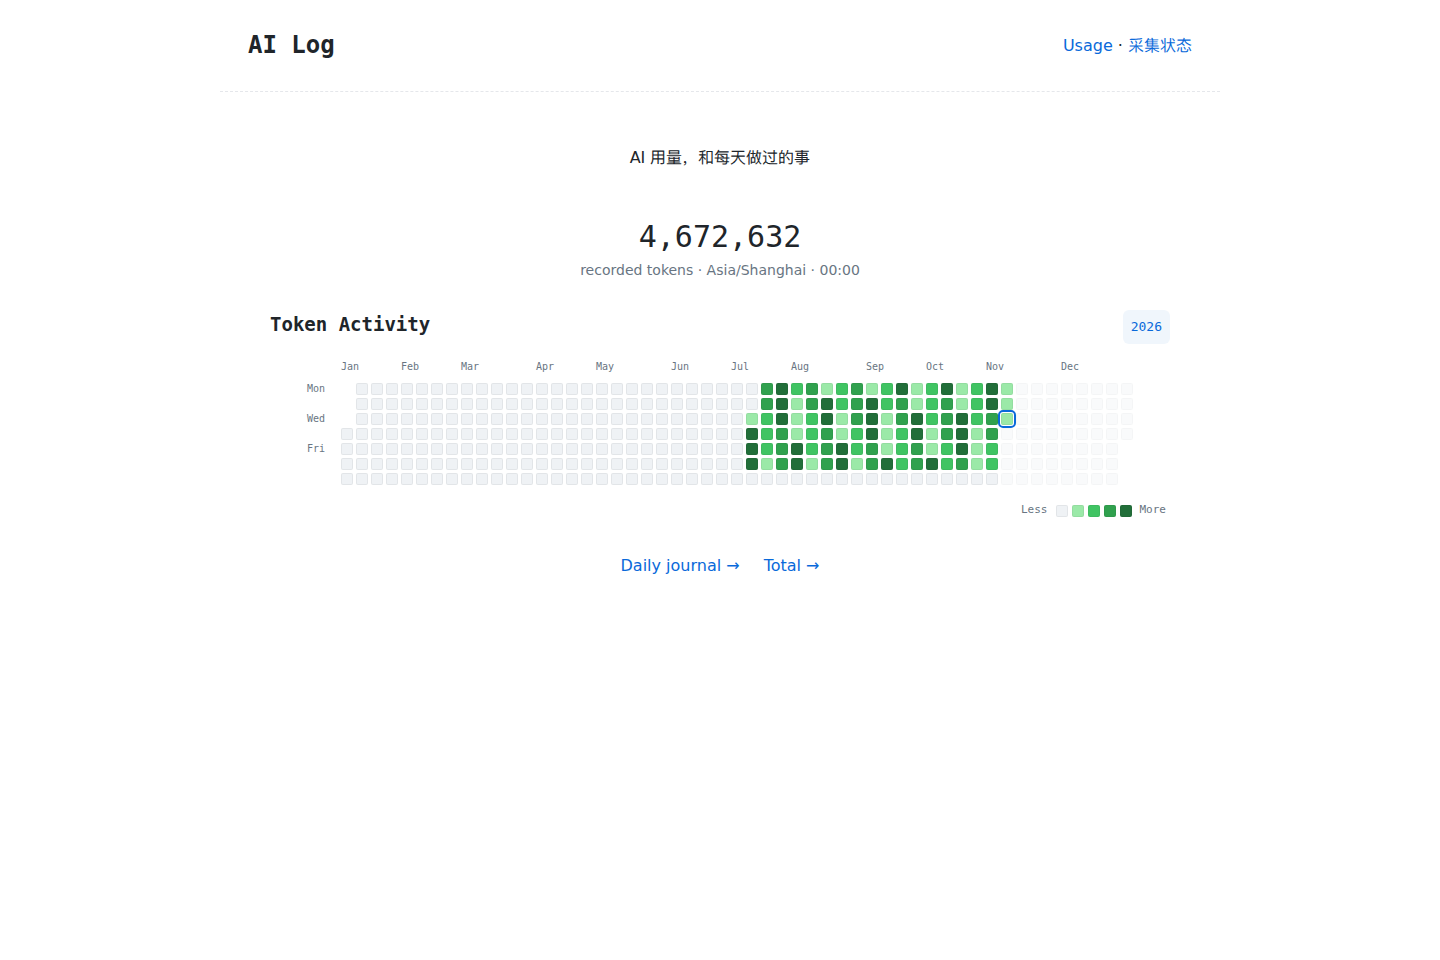
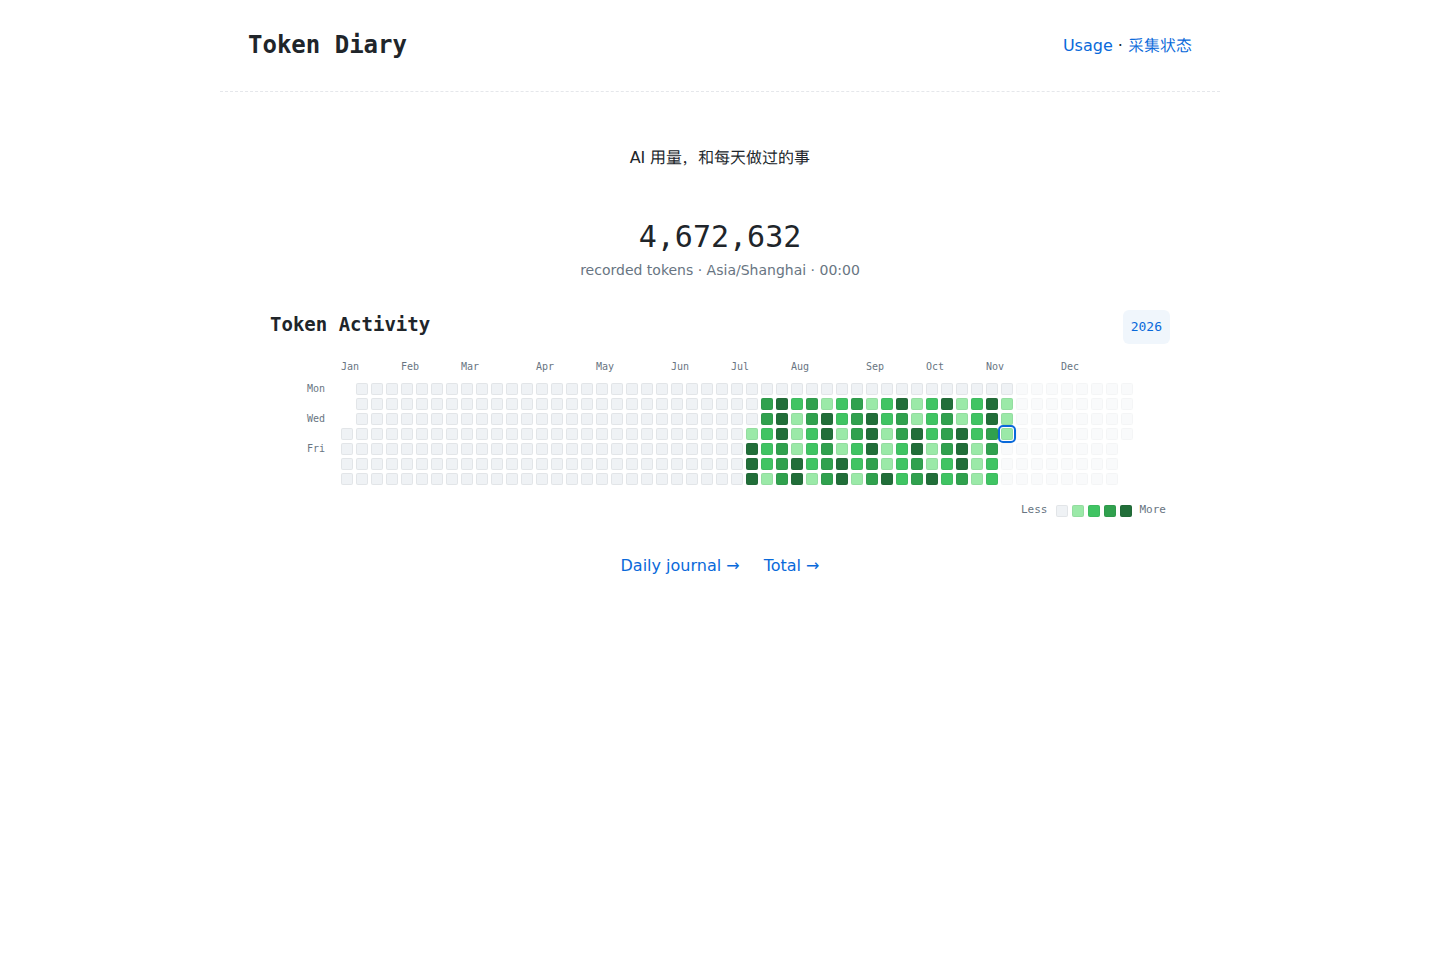
docs: rename project to Token Diary and rewrite the README

Changed region(s): [[0.5, 0.375, 0.7188, 0.5312], [0.1562, 0.0312, 0.2812, 0.0625]]

diff --git a/README.md b/README.md
@@ -1,130 +1,53 @@
-# AI Log
+# Token Diary
 
-**每天用了多少 AI？这些 token 用来做了什么？**
+记录你与 AI 一起做过的事。
 
-AI Log 是一个本地优先、可自行部署的 AI 用量日志。它从已有 Agent 日志读取真实 token 记录，把多台设备的用量汇总成日历热力墙、每日日志和周期回顾。
+Token Diary 把分散在不同工具和设备上的 AI 使用记录汇集起来：看见每天的用量，也留下任务、进展和回顾，让一次次对话成为可以翻阅的日志。
 
-![AI Log Home — synthetic data](docs/home.png)
+![Token Diary 年度热力墙，使用演示数据](docs/home.png)
 
-- **用量统计**：按天、周、月、年和全部历史查看，按 Agent / 设备 / 模型拆分。
-- **多设备采集**：本机、SSH、Windows WSL 和快照导入；设备离线时保留上次结果。
-- **真实记录与去重**：处理累计计数、流式重复记录和迁移日志副本，缺失用量不按字数猜测。
-- **可选工作回顾**：默认关闭。开启后记录任务意图、会话报告的结果和待办，长周期复用缓存摘要。
-- **独立运行**：Node.js 24+，没有运行时 npm 依赖，不需要接入已有博客或日记系统。
-- **可导出**：JSON 和 Markdown，便于与你自己的 Diary 结合。
+## 看见使用的节奏
 
-## 快速开始
+通过年度热力墙查看每天的 token 用量，点击日期进入当天的记录。你可以按日、周、月、年查看，也可以浏览全部历史，再按工具、设备或模型拆分用量。
 
-需要 Node.js **24 或更新版本**。当前项目发布在 GitHub，尚未发布到 npm Registry。
+多台电脑的记录可以汇总在一起。设备暂时离线时保留上次结果，重新连接后补齐记录；能够识别的重复记录会合并统计。
 
-```sh
-git clone https://github.com/ch-z-hc/ai-log.git
-cd ai-log
-npm install -g .
-ai-log init
-ai-log collect
-ai-log serve
-```
+## 留下做过的事
 
-打开 **http://127.0.0.1:4317**。`collect` 和浏览网页均不调用模型。要定期采集，在另一个终端运行 `ai-log watch`；默认每 5 分钟采集一次。
+开启 Review 后，Token Diary 会把会话中的任务意图、报告的结果和待办整理成简短回顾，帮助你找到当时在做什么、哪些工作还在继续。
 
-不安装也能运行：`node bin/ai-log.cjs --help`。从仓库生成可安装包：`npm pack`，然后 `npm install -g ./ch-z-hc-ai-log-0.1.0.tgz`。
+![Token Diary 每日用量与回顾，使用演示数据](docs/daily.png)
 
-只想看看界面，可以使用**完全模拟的数据**：
-
-```sh
-ai-log demo --data-dir ./demo-data
-ai-log serve --data-dir ./demo-data
-```
-
-![AI Log daily view — synthetic data](docs/daily.png)
-
-## 支持的日志
-
-| Agent / 数据源 | 支持范围 |
+| 回顾 | 更新方式 |
 | --- | --- |
-| Codex | sessions / archived_sessions，JSONL / Zstandard，逐次 usage 与旧累计计数 |
-| Claude Code | projects JSONL，流式合并，缓存读写归入输入 |
-| Pi / Oh My Pi | session JSONL |
-| OpenCode | 本地 SQLite 中的 message / part |
-| Zcode | SQLite `model_usage` |
-| CC Switch | 历史 proxy request 记录，与原始 Claude 记录去重 |
-| Qoder Work | 兼容 JSONL 中明确保存的 usage；没有记录时不估算 |
+| 每日 | 当天结束后生成 |
+| 每周 | 一周结束后生成，周一至周日为一周 |
+| 每月 | 当月结束后生成 |
+| 每年 | 当年结束后生成 |
+| Total | 手动更新全部已结束日期的回顾 |
 
-Python WSL 回退当前**只解析 Codex**，需要 Python 3.9+；压缩日志额外需要系统 `libzstd.so.1`。其它工具只显示发现状态。完整采集器使用 Node.js 24+。
+已有回顾会复用。长周期回顾依据已保存的小周期摘要整理，材料没有变化时不重复生成。浏览页面和采集用量不调用模型；Review 默认关闭，开启后会使用你配置的模型账户额度。
 
-这些是对本地日志格式的适配，不是服务商账单接口。服务商更改日志格式可能需要更新适配器。没有记录的调用无法还原，token 用量也不代表金额或订阅剩余额度。详细口径见 [数据与统计](docs/data.md)。
+## 汇集不同工具的记录
 
-## 多设备配置
+目前支持 Codex、Claude Code、Pi、Oh My Pi、OpenCode、Zcode、CC Switch 历史用量，以及 Qoder Work 中明确保存的用量记录。
 
-`ai-log init` 在 `~/.config/ai-log/config.json` 创建配置，数据默认放在 `~/.local/share/ai-log/`。Windows 中 `~` 指用户主目录。也可以用 `--config PATH`、`--data-dir PATH` 或 `AI_LOG_CONFIG` / `AI_LOG_DIR` 覆盖。
+只统计能够读取到的实际用量，不根据文字长度猜测消耗。缺失记录无法还原，token 用量也不等于金额或订阅剩余额度。ChatGPT 网页 / App 聊天记录的接入仍在规划中。
 
-```json
-{
-  "timezone": "Asia/Shanghai",
-  "captureText": false,
-  "sources": [
-    { "id": "local", "name": "This computer", "type": "local" },
-    { "id": "laptop", "name": "Laptop", "type": "ssh", "host": "my-laptop" },
-    { "id": "linux", "name": "Laptop WSL", "type": "wsl", "host": "my-laptop", "distro": "Ubuntu" }
-  ],
-  "review": { "enabled": false }
-}
-```
+## 从一台电脑开始
 
-SSH 使用你已有的 SSH config、密钥和 known_hosts，不创建或复制凭据，需能够非交互登录。远端 Node 采集需要 `node` 已在 SSH 的 PATH 中。向远端标准输入发送只读扫描脚本，返回压缩的标准化快照；不向远端安装 npm 包。
+按照[使用指南](docs/guide.md)运行后，打开本地面板即可查看记录；也可以先用演示数据体验界面，再添加自己的设备。
 
-WSL 类型省略 `host` 即在本机 Windows 执行，也可以添加 `user`。`home` 可覆盖扫描的账户主目录。其它配置见 [配置示例](examples/config.example.json)。
+开启后台采集后，用量约每 5 分钟更新一次。日志可以导出，方便保存或与你自己的日记结合。
 
-默认按 **Asia/Shanghai 自然日零点**汇总，周一是一周开始。时区可设置为 IANA 名称，例如 `UTC` 或 `America/New_York`；修改时区后需要重新采集所有来源，文件快照必须使用相同时区。
+- [安装、演示与多设备配置](docs/guide.md)
+- [统计口径与数据导出](docs/data.md)
+- [Review 设置与用量控制](docs/reviews.md)
 
-## 可选 Review
+## 数据由你保管
 
-Review 需要同时开启对话摘录采集和模型生成：
+记录保存在自己的设备上。默认只采集用量，不保存对话摘录；开启摘录和 Review 后，相关文字才会用于生成回顾。文字过滤不能保证清除所有敏感内容，关闭开关也不会自动删除此前保存的材料。
 
-```json
-{
-  "captureText": true,
-  "review": {
-    "enabled": true,
-    "provider": "codex",
-    "command": "codex",
-    "model": "gpt-6.1-sol",
-    "maxInputChars": 24000,
-    "maxCallsPerRun": 5,
-    "maxCallsPerDay": 20
-  }
-}
-```
+面板默认仅供本机访问。仓库中的截图和示例均使用模拟数据。
 
-先运行 `ai-log collect` 采集摘录，再运行 `ai-log review`。Codex 模式使用你已安装并登录的 Codex CLI；不会申请 API key、自动登录或切换模型。需要当前 CLI 支持代码中使用的 exec / ephemeral / schema 选项。Windows 可把 `command` 指向 `codex.exe`；对于 npm 的 `.cmd` 启动器，使用 `command: "node"` 并在 `args` 中给出 CLI JavaScript 入口。也支持你自己的 JSON 命令提供器，见 [Review 机制](docs/reviews.md)。
-
-- 日回顾：当天结束后生成；周 / 月 / 年：对应周期结束后生成。
-- 相同材料复用缓存，回补材料导致的重算每个周期每天最多一次。
-- 周 / 月复用日摘要；年优先复用月摘要；Total 优先复用年 / 月摘要，必要时退回日摘要，**不直接重读原始长历史**。
-- **Total 只手动生成**：`ai-log review --period total`。仅覆盖已结束日期，等待这些日期的子摘要就绪。
-- 超过输入字符上限就暂停该项，不截断材料冒充完整回顾；有单次运行及每日调用次数限制。
-- `ai-log watch` 只在显式开启 Review 后自动生成已结束周期。网页始终只读，不触发模型。
-
-Review 会消耗你配置的模型账户额度。字符上限是输入长度约束，不是精确 token 预算。返回的 token usage 保存于独立账本，也会计入总用量；未返回的失败调用无法准确计费。所有测试和演示均不请求真实模型。
-
-## 隐私与部署边界
-
-默认不保存对话摘录，也不调用模型。开启 `captureText` 后会保存少量用户 / 助手文字，开启 Review 后会将相关材料发送给你配置的模型服务。凭据过滤只能降低意外泄漏风险，**不保证消除所有敏感内容**。关闭开关不会自动删除此前已保存的摘录或回顾，保留策略由你管理。
-
-Web 默认且仅监听 `127.0.0.1`，没有内置多用户认证。若需从其它设备访问，可使用 SSH 本地端口转发；若自行放在反向代理后，必须配置认证和合适的 Host 转发，不能直接公开个人日志。仓库和 npm 包仅含代码、文档与模拟测试，不含账户配置、真实日志或 SSH 密钥。不要把自己的数据目录提交到 Git。
-
-0.1 使用原子 JSON / gzip 文件存储，延续已有采集器的格式，方便检查和备份；没有为了首版额外引入中心数据库。
-
-## 开发
-
-```sh
-npm test
-npm pack --dry-run
-```
-
-测试使用临时目录和合成日志，覆盖计数去重、缓存、隐私开关、Python 回退、离线来源、日历边界、网页和摘要依赖；不触碰真实历史或调用真实模型。CI 覆盖 Linux / Windows / macOS 的 Node.js 24，实际结果以 Actions 为准。
-
-后续方向：更多 Agent 适配、Diary 集成、更细的增量摘要与存储优化。项目维护规则见 [AGENTS.md](AGENTS.md)。
-
-MIT License.
+[MIT License](LICENSE)

diff --git a/docs/guide.md b/docs/guide.md
@@ -1,0 +1,117 @@
+# 使用指南
+
+## 快速开始
+
+需要 Node.js **24 或更新版本**。当前项目发布在 GitHub，尚未发布到 npm Registry。
+
+```sh
+git clone https://github.com/ch-z-hc/Token-Diary.git
+cd Token-Diary
+npm install -g .
+ai-log init
+ai-log collect
+ai-log serve
+```
+
+打开 **http://127.0.0.1:4317**。`collect` 和浏览网页均不调用模型。要定期采集，在另一个终端运行 `ai-log watch`；默认每 5 分钟采集一次。
+
+不安装也能运行：`node bin/ai-log.cjs --help`。从仓库生成可安装包：`npm pack`，再使用命令返回的文件名安装。
+
+项目已改名为 Token Diary；`ai-log` 命令、配置路径和数据目录保持兼容，不需要迁移已有记录。
+
+只想看看界面，可以使用**完全模拟的数据**：
+
+```sh
+ai-log demo --data-dir ./demo-data
+ai-log serve --data-dir ./demo-data
+```
+
+## 支持的日志
+
+| Agent / 数据源 | 支持范围 |
+| --- | --- |
+| Codex | sessions / archived_sessions，JSONL / Zstandard，逐次 usage 与旧累计计数 |
+| Claude Code | projects JSONL，流式合并，缓存读写归入输入 |
+| Pi / Oh My Pi | session JSONL |
+| OpenCode | 本地 SQLite 中的 message / part |
+| Zcode | SQLite `model_usage` |
+| CC Switch | 历史 proxy request 记录，与原始 Claude 记录去重 |
+| Qoder Work | 兼容 JSONL 中明确保存的 usage；没有记录时不估算 |
+
+Python WSL 回退当前**只解析 Codex**，需要 Python 3.9+；压缩日志额外需要系统 `libzstd.so.1`。其它工具只显示发现状态。完整采集器使用 Node.js 24+。
+
+这些是对本地日志格式的适配，不是服务商账单接口。服务商更改日志格式可能需要更新适配器。没有记录的调用无法还原，token 用量也不代表金额或订阅剩余额度。详细口径见 [数据与统计](data.md)。
+
+## 多设备配置
+
+`ai-log init` 在 `~/.config/ai-log/config.json` 创建配置，数据默认放在 `~/.local/share/ai-log/`。Windows 中 `~` 指用户主目录。也可以用 `--config PATH`、`--data-dir PATH` 或 `AI_LOG_CONFIG` / `AI_LOG_DIR` 覆盖。
+
+```json
+{
+  "timezone": "Asia/Shanghai",
+  "captureText": false,
+  "sources": [
+    { "id": "local", "name": "This computer", "type": "local" },
+    { "id": "laptop", "name": "Laptop", "type": "ssh", "host": "my-laptop" },
+    { "id": "linux", "name": "Laptop WSL", "type": "wsl", "host": "my-laptop", "distro": "Ubuntu" }
+  ],
+  "review": { "enabled": false }
+}
+```
+
+SSH 使用你已有的 SSH config、密钥和 known_hosts，不创建或复制凭据，需能够非交互登录。远端 Node 采集需要 `node` 已在 SSH 的 PATH 中。向远端标准输入发送只读扫描脚本，返回压缩的标准化快照；不向远端安装 npm 包。
+
+WSL 类型省略 `host` 即在本机 Windows 执行，也可以添加 `user`。`home` 可覆盖扫描的账户主目录。其它配置见 [配置示例](../examples/config.example.json)。
+
+默认按 **Asia/Shanghai 自然日零点**汇总，周一是一周开始。时区可设置为 IANA 名称，例如 `UTC` 或 `America/New_York`；修改时区后需要重新采集所有来源，文件快照必须使用相同时区。
+
+## 可选 Review
+
+Review 需要同时开启对话摘录采集和模型生成：
+
+```json
+{
+  "captureText": true,
+  "review": {
+    "enabled": true,
+    "provider": "codex",
+    "command": "codex",
+    "model": "gpt-6.1-sol",
+    "maxInputChars": 24000,
+    "maxCallsPerRun": 5,
+    "maxCallsPerDay": 20
+  }
+}
+```
+
+先运行 `ai-log collect` 采集摘录，再运行 `ai-log review`。Codex 模式使用你已安装并登录的 Codex CLI；不会申请 API key、自动登录或切换模型。需要当前 CLI 支持代码中使用的 exec / ephemeral / schema 选项。Windows 可把 `command` 指向 `codex.exe`；对于 npm 的 `.cmd` 启动器，使用 `command: "node"` 并在 `args` 中给出 CLI JavaScript 入口。也支持你自己的 JSON 命令提供器，见 [Review 机制](reviews.md)。
+
+- 日回顾：当天结束后生成；周 / 月 / 年：对应周期结束后生成。
+- 相同材料复用缓存，回补材料导致的重算每个周期每天最多一次。
+- 周 / 月复用日摘要；年优先复用月摘要；Total 优先复用年 / 月摘要，必要时退回日摘要，**不直接重读原始长历史**。
+- **Total 只手动生成**：`ai-log review --period total`。仅覆盖已结束日期，等待这些日期的子摘要就绪。
+- 超过输入字符上限就暂停该项，不截断材料冒充完整回顾；有单次运行及每日调用次数限制。
+- `ai-log watch` 只在显式开启 Review 后自动生成已结束周期。网页始终只读，不触发模型。
+
+Review 会消耗你配置的模型账户额度。字符上限是输入长度约束，不是精确 token 预算。返回的 token usage 保存于独立账本，也会计入总用量；未返回的失败调用无法准确计费。所有测试和演示均不请求真实模型。
+
+## 隐私与部署边界
+
+默认不保存对话摘录，也不调用模型。开启 `captureText` 后会保存少量用户 / 助手文字，开启 Review 后会将相关材料发送给你配置的模型服务。凭据过滤只能降低意外泄漏风险，**不保证消除所有敏感内容**。关闭开关不会自动删除此前已保存的摘录或回顾，保留策略由你管理。
+
+Web 默认且仅监听 `127.0.0.1`，没有内置多用户认证。若需从其它设备访问，可使用 SSH 本地端口转发；若自行放在反向代理后，必须配置认证和合适的 Host 转发，不能直接公开个人日志。仓库和 npm 包仅含代码、文档与模拟测试，不含账户配置、真实日志或 SSH 密钥。不要把自己的数据目录提交到 Git。
+
+0.1 使用原子 JSON / gzip 文件存储，延续已有采集器的格式，方便检查和备份；没有为了首版额外引入中心数据库。
+
+## 开发
+
+```sh
+npm test
+npm pack --dry-run
+```
+
+测试使用临时目录和合成日志，覆盖计数去重、缓存、隐私开关、Python 回退、离线来源、日历边界、网页和摘要依赖；不触碰真实历史或调用真实模型。CI 覆盖 Linux / Windows / macOS 的 Node.js 24，实际结果以 Actions 为准。
+
+后续方向：更多 Agent 适配、Diary 集成、更细的增量摘要与存储优化。项目维护规则见 [AGENTS.md](../AGENTS.md)。
+
+MIT License.

diff --git a/AGENTS.md b/AGENTS.md
@@ -1,4 +1,4 @@
-# AI Log maintenance
+# Token Diary maintenance
 
 ## Owner's standing instruction
 
@@ -6,7 +6,7 @@ When the owner requests an update to **this project**, implement it, run the rel
 
 ## Scope
 
-AI Log is a local-first AI token usage and work journal. The repository is independent of any personal website, Diary data, private authentication, specific machines or deployment paths. Keep private integrations outside this public repository.
+Token Diary (formerly AI Log) is a local-first AI token usage and work journal. The repository is independent of any personal website, Diary data, private authentication, specific machines or deployment paths. Keep private integrations outside this public repository.
 
 - Node.js 24+, CommonJS; no runtime npm dependencies.
 - `bin/ai-log.cjs`: CLI and environment setup before requiring core modules.
@@ -15,6 +15,11 @@ AI Log is a local-first AI token usage and work journal. The repository is indep
 - `src/core.cjs`, `periods.cjs`: inclusive token normalization, aliases and calendar aggregates.
 - `src/reviews.cjs`: explicit model opt-in, child-summary reuse, fingerprints and input/call budgets.
 - `src/server.cjs`, `view.cjs`, `heatmap.cjs`: read-only loopback dashboard; heatmap is Home-only.
+
+## Naming and README
+
+- Public repository: `ch-z-hc/Token-Diary`. The owner chose **Token Diary** on 2026-11-05. Keep existing `ai-log` CLI commands, filenames, environment variables and data paths compatible.
+- README should explain the product, supported workflows and screenshots. Do not put a technology-stack overview or implementation/storage details there; installation and configuration belong in `docs/guide.md`, technical details in the other docs.
 
 ## Invariants
 
